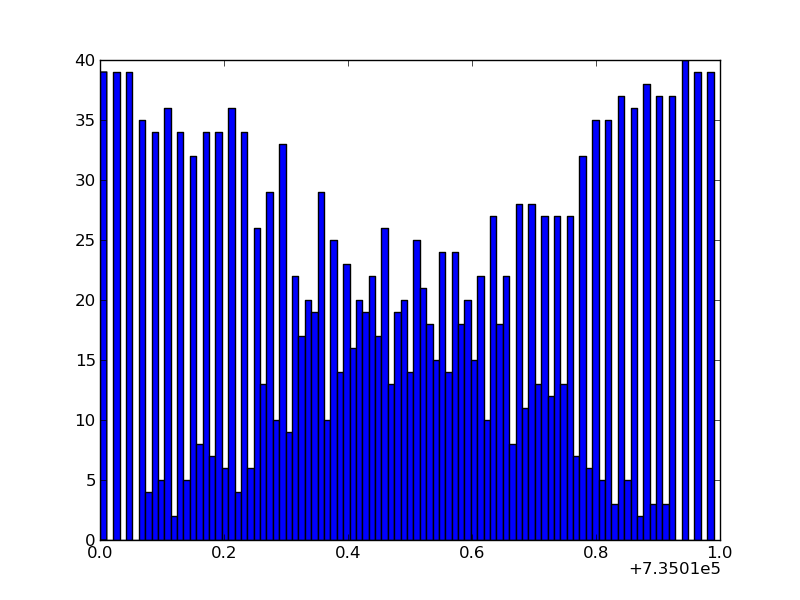
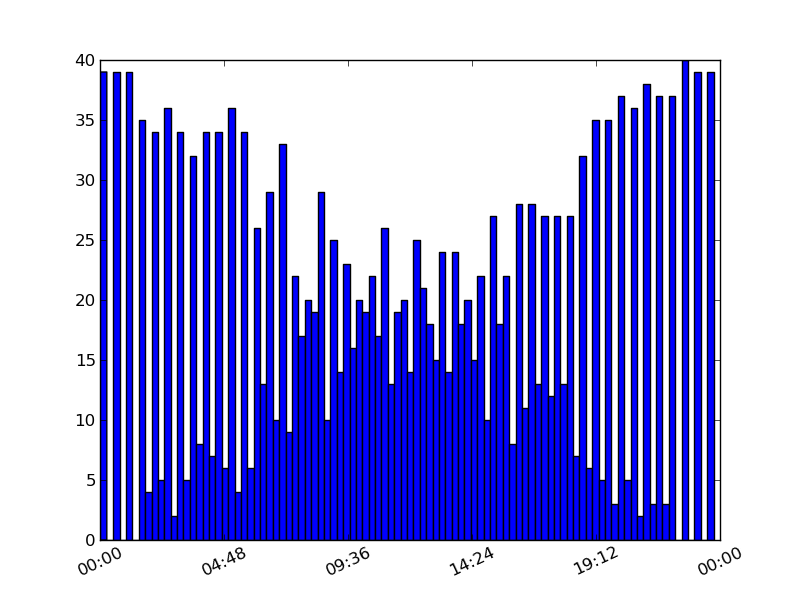
small fix to 15 plot

diff --git a/makeplots.py b/makeplots.py
@@ -28,6 +28,10 @@ plt.savefig('timedist-30')
 
 plt.clf()
 
+xfmt = d.DateFormatter('%H:%M')
+plt.gca().xaxis.set_major_formatter(xfmt)
+plt.xticks(rotation = 25)
+
 plt.hist(starttimes, bins=96)
 plt.savefig('timedist-15')
 
